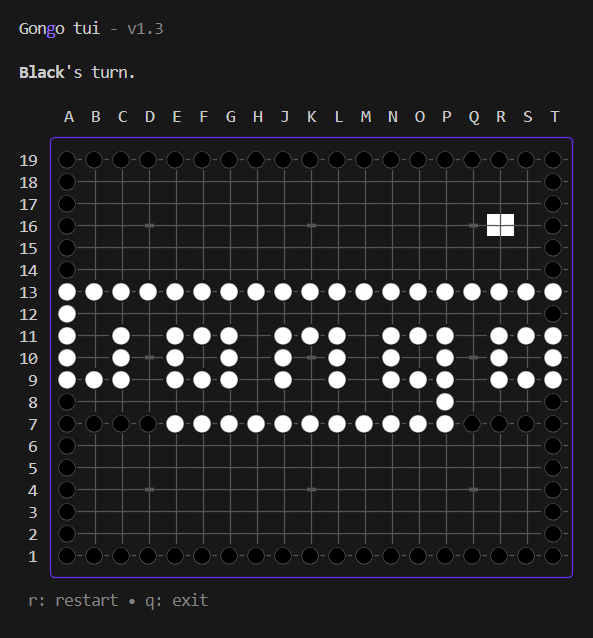
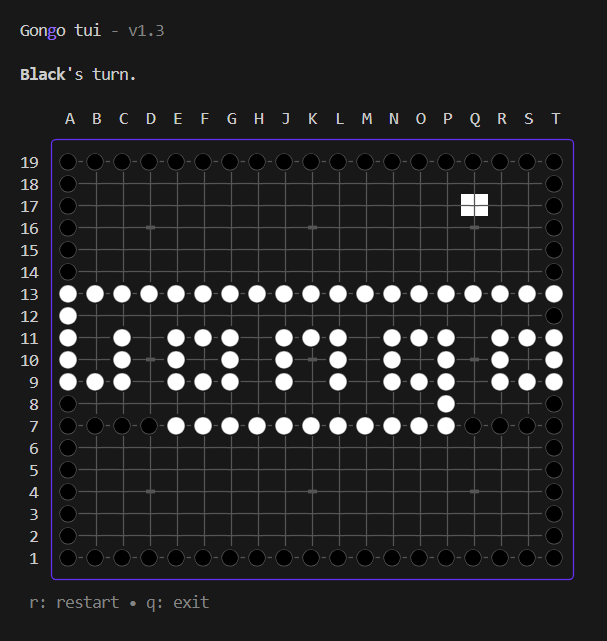
fix: Right-side lines on TUI

diff --git a/internal/tui/view.go b/internal/tui/view.go
@@ -41,19 +41,19 @@ func (m *Model) View() string {
 
 			if x == 0 && y == 0 {
 				cell = " ┌─"
-			} else if x == 0 && y == 18 {
+			} else if x == 0 && y == 19-1 {
 				cell = " └─"
-			} else if x == 18 && y == 0 {
+			} else if x == 19-1 && y == 0 {
 				cell = "─┐ "
-			} else if x == 18 && y == 18 {
+			} else if x == 19-1 && y == 19-1 {
 				cell = "─┘ "
 			} else if x == 0 {
 				cell = " ├─"
-			} else if x == 18 {
+			} else if x == 19-1 {
 				cell = "─┤ "
 			} else if y == 0 {
 				cell = "─┬─"
-			} else if y == 18 {
+			} else if y == 19-1 {
 				cell = "─┴─"
 			}
 
@@ -61,11 +61,18 @@ func (m *Model) View() string {
 				cell = "─┿─"
 			}
 
-			switch m.Game.Board[x+y*19] {
-			case 1:
-				cell = "⚫╶"
-			case 2:
-				cell = "⚪╶"
+			if m.Game.Board[x+y*19] != 0 {
+				switch m.Game.Board[x+y*19] {
+				case 1:
+					cell = "⚫"
+				case 2:
+					cell = "⚪"
+				}
+				if x < 19-1 {
+					cell += "╶"
+				} else {
+					cell += " "
+				}
 			}
 
 			cell = mutedStyle.Render(cell)
